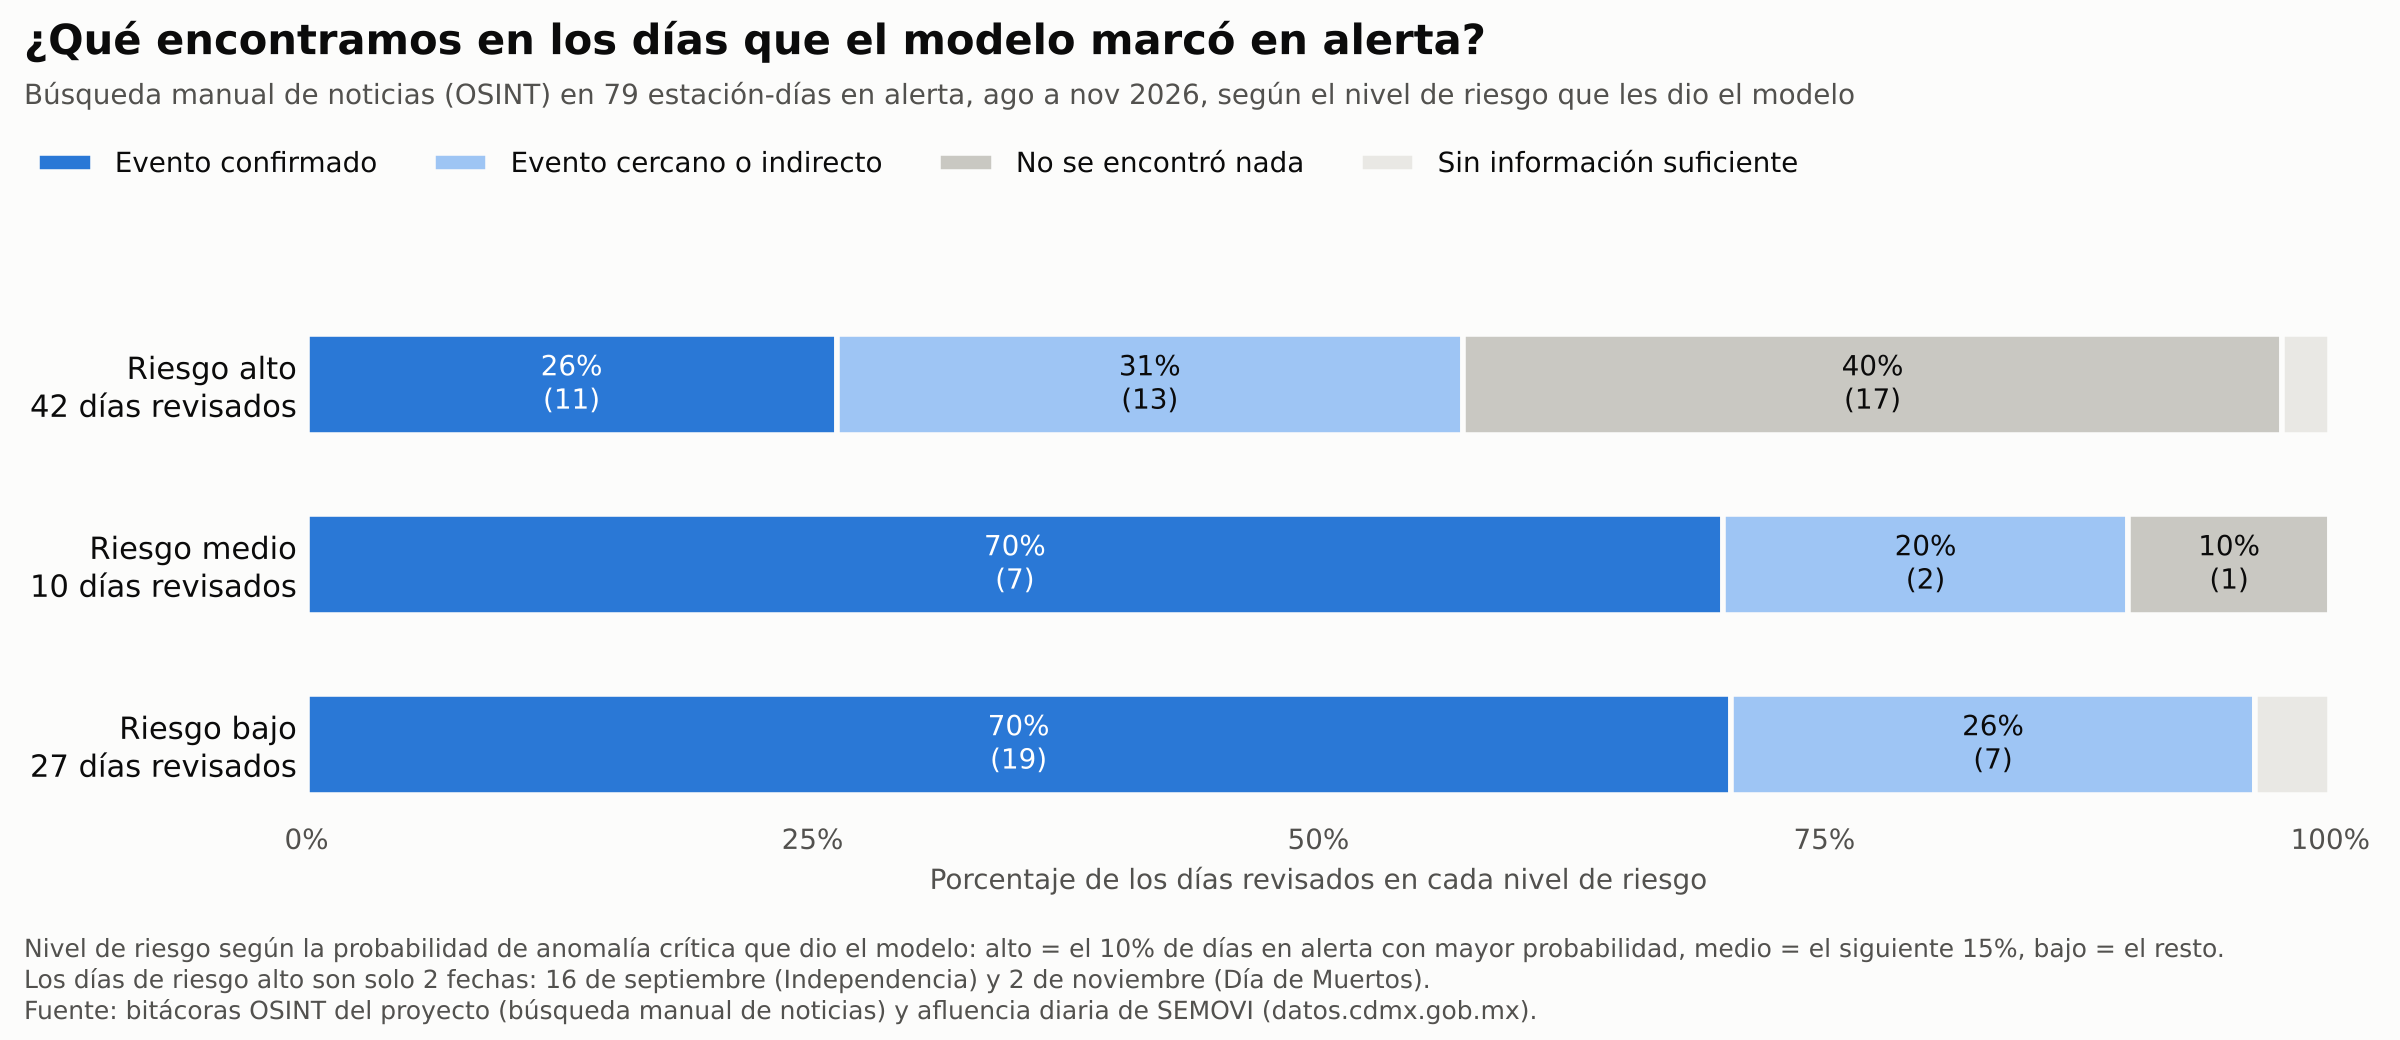
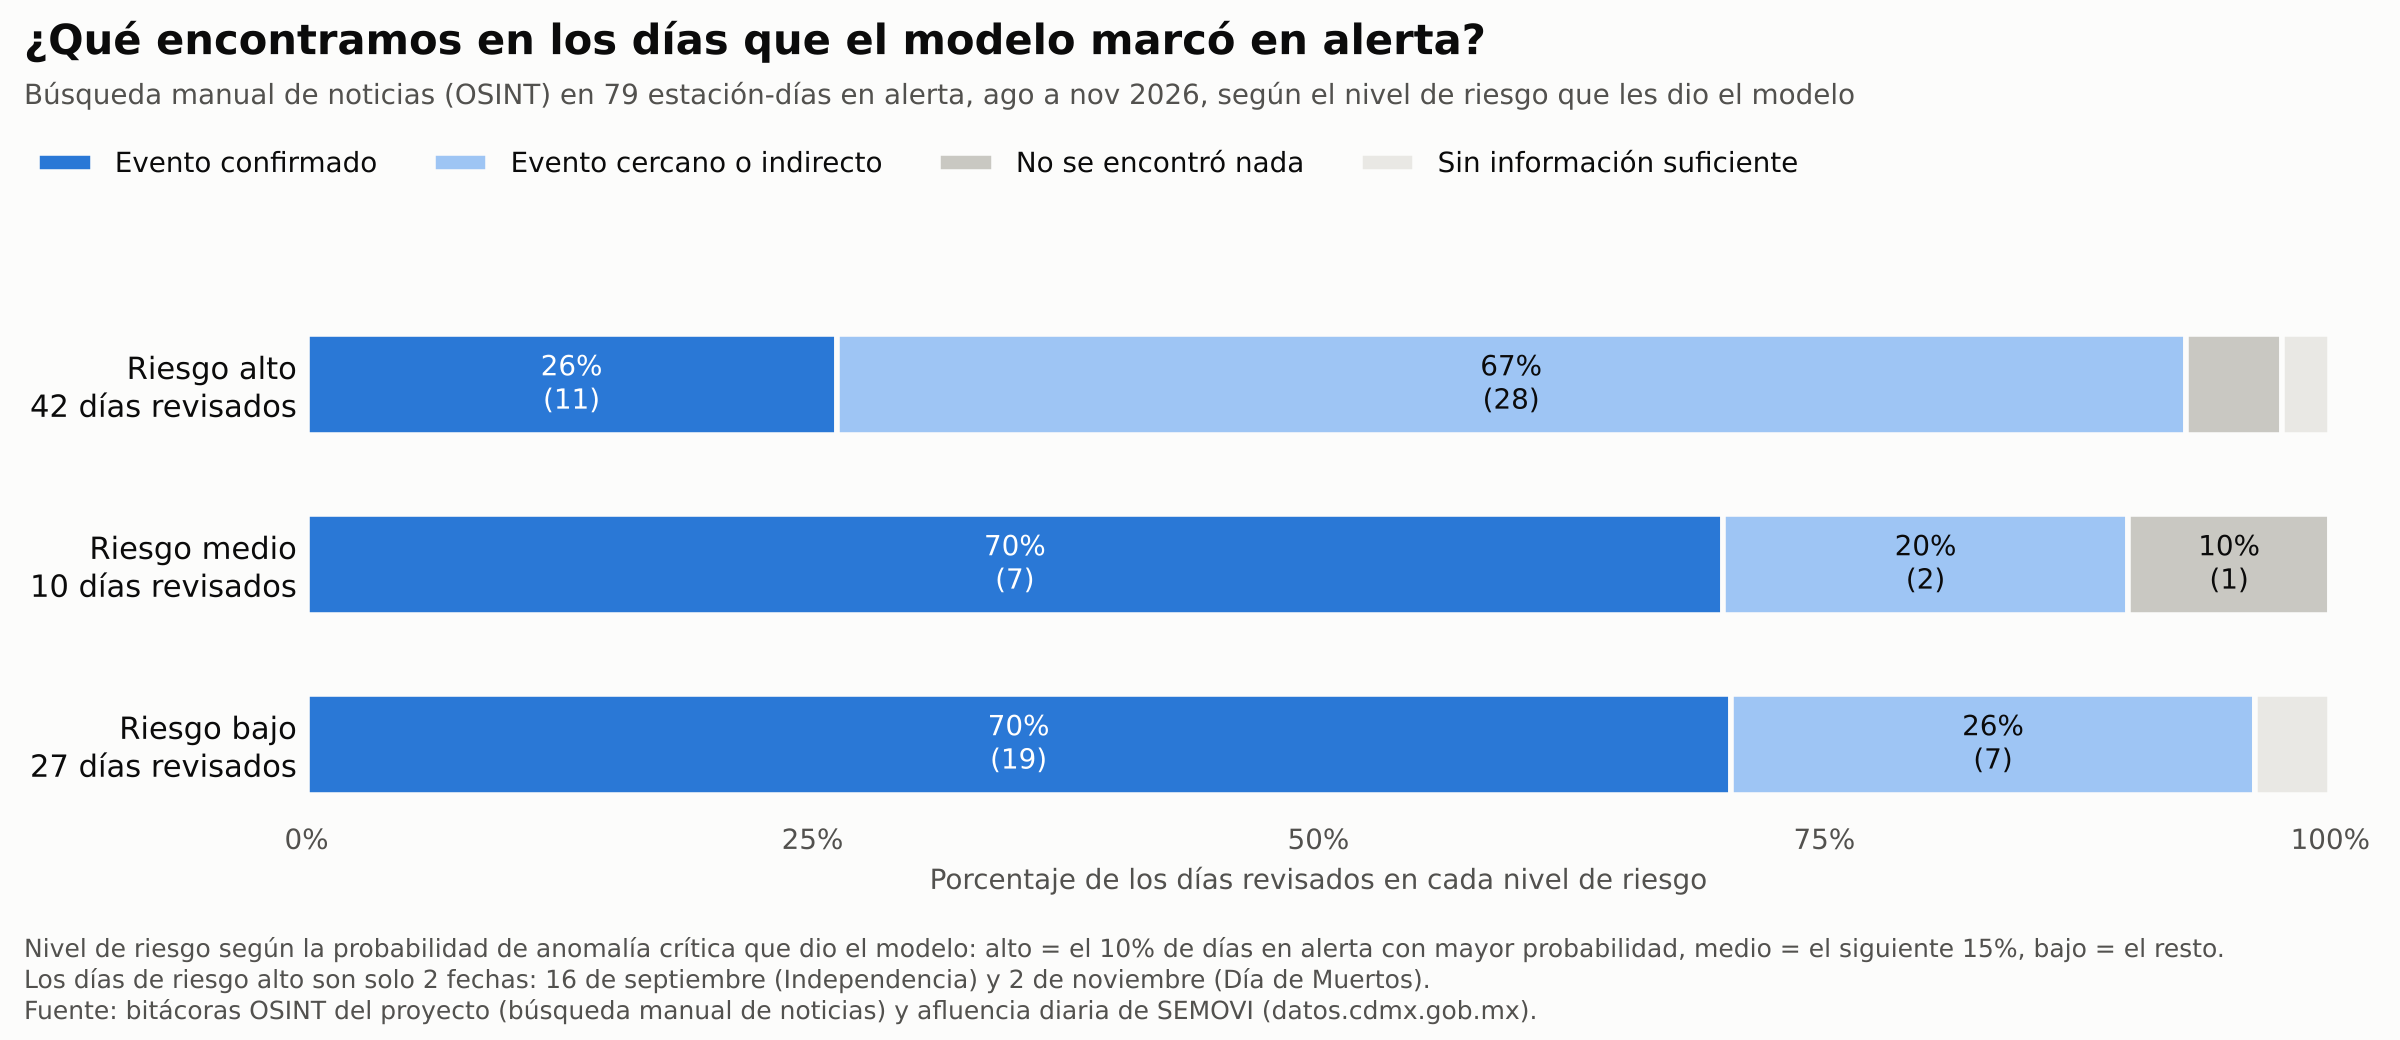
OSINT original: las filas "No" del 16-sep (feriado) cuentan como Parcial
Claude-Session: https://claude.ai/code/session_01TB6ZcUR8u5C6bkpbtsjh4K

Changed region(s): [[0.5938, 0.3077, 0.9375, 0.4308], [0.4688, 0.3385, 0.5, 0.4]]

diff --git a/validacion_predicciones/validacion_predicciones.py b/validacion_predicciones/validacion_predicciones.py
@@ -31,6 +31,7 @@ BITACORA_HIST = 'bitacora_investigacion_anomalias_criticas.csv'             # OS
 CORRIDA = f'{DATOS}/propuesta_anomalias_futuras_corrida_validacion.xlsx'    # corrida del modelo de la que salio la muestra
 SEMOVI = f'{DATOS}/afluenciastc_desglosado_2026-01_a_2026-09.csv'          # afluencia real 2026 (datos.cdmx.gob.mx)
 
+FERIADO_AJUSTE = '2026-09-16'   # filas "No" de este dia pasan a "Parcial" (ver leer_bitacora_pred)
 FECHA_CORTE = '2026-11-05'       # ultimo dia ya ocurrido cuando se sorteo la muestra
 INICIO_REAL = '2026-08-02'       # primer dia en alerta de la corrida
 TASA_HISTORICA = 3.0             # % de estacion-dias CRITICOS en el historico (modeling/ANALISIS.md: 2.6% a 3.3%)
@@ -68,6 +69,12 @@ def leer_bitacora_pred(ruta):
     # La bitacora original viene de la hoja de calculo del equipo: fechas m/d/aaaa y afluencia con comas de miles
     df = pd.read_csv(ruta, thousands=',')
     df['Fecha'] = pd.to_datetime(df['Fecha'], format='%m/%d/%Y')
+    # Unico ajuste a la bitacora original (decision del equipo, 25-nov-2026): el 16-sep es feriado
+    # (Independencia), asi que las filas de ese dia calificadas "No" cuentan como evento indirecto.
+    # Solo cambia la calificacion; la causa (Hallazgo_Principal) se deja como la capturo el equipo.
+    feriado_no = (df['Fecha'] == FERIADO_AJUSTE) & df['Ocurrio_Evento'].str.startswith('No')
+    df.loc[feriado_no, 'Ocurrio_Evento'] = 'Parcial - Evento cercano/indirecto'
+    print(f'Ajuste feriado {FERIADO_AJUSTE}: {int(feriado_no.sum())} filas de "No" a "Parcial"')
     return df
 
 pred = leer_bitacora_pred(BITACORA_PRED)
@@ -204,7 +211,7 @@ plt.rcParams.update({'font.family': 'DejaVu Sans', 'figure.facecolor': FONDO, 'a
                      'axes.edgecolor': REJILLA})
 
 def cargar_bitacora(ruta):
-    df = leer_bitacora_pred(ruta) if ruta == BITACORA_PRED else pd.read_csv(ruta)
+    df = pred.copy() if ruta == BITACORA_PRED else pd.read_csv(ruta)
     df.columns = df.columns.str.lower()
     df['fecha'] = pd.to_datetime(df['fecha'])
     df['causa'] = df['hallazgo_principal'].fillna(SIN_CAUSA).str.strip()

diff --git a/validacion_predicciones/ANALISIS.md b/validacion_predicciones/ANALISIS.md
@@ -52,7 +52,8 @@ plantilla, aplicadas por el equipo al investigar:
 - **Sí, evento confirmado.** Se encontró un hecho ese día que el equipo relacionó con la estación
   (en la bitácora original incluye lluvias intensas, eventos masivos y fallas).
 - **Parcial, evento cercano o indirecto.** El hecho existe pero su relación con la estación es
-  indirecta (por ejemplo feriados, Hoy No Circula o un evento en otra zona).
+  indirecta (por ejemplo feriados, Hoy No Circula o un evento en otra zona). Un feriado cuenta
+  como Parcial aunque no se haya encontrado nada en la estación.
 - **No, sin evento.** Se investigó y no se encontró causa: ruido o falsa alarma.
 - **Sin información suficiente.** No hay fuentes para decidir. Es una categoría aparte: no cuenta
   como Sí ni como Parcial, pero sí en el total de filas del estrato.
@@ -60,8 +61,14 @@ plantilla, aplicadas por el equipo al investigar:
 ### Versión de la bitácora que se usa
 
 Se usa la bitácora **original** del equipo, sin las correcciones de la versión consolidada del
-12-nov-2026 (reclasificación de Hoy No Circula, paso de las filas del 16-sep y 2-nov a "Parcial",
-cambios en VAL-016 y VAL-031). Esa versión quedó en `datos/respaldo_version_corregida/` como respaldo.
+12-nov-2026 (reclasificación de Hoy No Circula, cambios en VAL-016 y VAL-031, 2-nov).
+
+**Único ajuste (25-nov-2026):** las 15 filas del 16-sep (Independencia, feriado) calificadas "No"
+pasan a "Parcial", porque aunque no se encontró nada en la estación el día es feriado. Se aplica en
+el script (`FERIADO_AJUSTE`), no en el CSV, que se conserva tal como se capturó. Solo cambia la
+calificación: la causa (`Hallazgo_Principal`) queda como la registró el equipo, así que esas filas
+siguen contando como "Falsa Alarma" (13) o sin causa (2) en las gráficas de causas. La fila del
+16-sep con "Sin información suficiente" no cambia. Esa versión quedó en `datos/respaldo_version_corregida/` como respaldo.
 La columna `Afluencia_Real_SEMOVI` de la original viene vacía; el cruce con la afluencia real lo
 hace el script directamente con el CSV de SEMOVI.
 
@@ -85,11 +92,11 @@ hace el script directamente con el CSV de SEMOVI.
 
 | Estrato | Filas | Sí | Parcial | No | Sin info | Tasa Sí | Tasa Sí + Parcial |
 |---|---|---|---|---|---|---|---|
-| A - Alta | 42 | 11 | 13 | 17 | 1 | 26% | 57% |
+| A - Alta | 42 | 11 | 28 | 2 | 1 | 26% | 93% |
 | B - Media | 10 | 7 | 2 | 1 | 0 | 70% | 90% |
 | C - Control | 27 | 19 | 7 | 0 | 1 | 70% | 96% |
-| Total muestra | 79 | 37 | 22 | 18 | 2 | 47% | 75% |
-| Ponderado (417) | | | | | | 66% | 91% |
+| Total muestra | 79 | 37 | 37 | 3 | 2 | 47% | 94% |
+| Ponderado (417) | | | | | | 66% | 95% |
 
 Causas: Evento Masivo 24%, Falsa Alarma 23%, Clima Extremo 16%, Feriado No Oficial / Cultural 9%,
 Contingencia Ambiental 9%, Falla Oculta 8%; el resto 1 a 4% cada una (2 filas sin causa capturada).
@@ -109,18 +116,17 @@ Prophet y solo 61% cayó dentro de su banda.
 
 ### Lectura conjunta
 
-- **La OSINT original no respalda el estrato de riesgo alto.** Alta tiene la tasa de Sí más baja
-  (26%) y 17 de sus 42 filas son "No". Alta son dos fechas (16-sep, 30 filas; 2-nov, 12 filas) y
-  en el 16-sep el equipo registró 15 filas como "No" (falsa alarma).
-- **La afluencia real sí respalda Alta.** El 16-sep toda la red cayó a cerca del 36% de lo normal:
-  28 de los 30 días de Alta con dato real tuvieron alguna anomalía y 11 fueron CRÍTICA (37%).
-- **OSINT y afluencia real coinciden en 21 de las 49 filas con ambos datos** (OSINT Sí o Parcial
-  frente a cualquier anomalía real). El desacuerdo principal es el 16-sep: 15 filas "No" con
-  afluencia real anómala. Fuera del 16-sep, 9 de 16 filas "Sí" tuvieron afluencia normal.
+- **El modelo anticipa bien los días de calendario atípico.** Alta son dos fechas (16-sep, 30 filas;
+  2-nov, 12 filas) y en 93% de sus filas pasó algo (Sí o Parcial). El 16-sep toda la red cayó a cerca
+  del 36% de lo normal: 28 de los 30 días de Alta con dato real tuvieron alguna anomalía y 11 fueron
+  CRÍTICA (37%).
+- **En eventos propios de una estación el acierto es menor:** Alta tiene la tasa de Sí más baja (26%);
+  la mayoría de sus filas son Parcial por el feriado. Medio y Control tienen 70% de Sí, así que la OSINT
+  no separa los niveles de riesgo en el orden esperado.
+- **OSINT y afluencia real coinciden en 36 de las 49 filas con ambos datos** (OSINT Sí o Parcial
+  frente a cualquier anomalía real). El desacuerdo principal es fuera del 16-sep: 9 de 16 filas "Sí"
+  tuvieron afluencia normal, sobre todo días con lluvia documentada.
 - Las críticas reales en días en alerta (13%) son unas 4 veces la tasa histórica (~3%); sin el 16-sep, 10%.
-- Medio y Control tienen tasas de Sí altas (70%) y casi ninguna fila "No", así que la OSINT no
-  separa los niveles de riesgo en el orden esperado. La afluencia real tampoco lo hace entre Medio
-  (6%) y Control (11%).
 
 ## Gráficas
 
